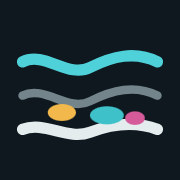
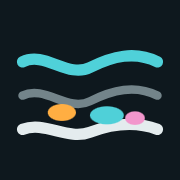
demo: more saturated fluid colours, regenerated share image, defect in facts
- Fluid colours: amber #FFAE42, teal #4FD0D8, pink #F296CC instead of the
  greyish #E2C27E, #86CFD3, #D59CC0. The IRF fill no longer reads olive (the
  hue moved from yellow toward orange) and the three are clearly separate hues.
  Overlay fills stay at 35% with the dark halo; every outline is at least
  3.3:1 against the surrounding tissue and 4.9:1 against the fluid on all
  three scanner styles. Legend chips use a 75% fill so they read at a glance.
- npm run og: og.png, favicon.svg and apple-touch-icon.png use the new
  colours, now from one FLUID constant in scripts/og.ts.
- lib/facts.js: the OcuVal section says the evaluation had a defect, found on
  16 October 2026, and results will be posted once it is corrected.

Changed region(s): [[0.6944, 0.6111, 0.8056, 0.6944]]

diff --git a/scripts/og.ts b/scripts/og.ts
@@ -14,15 +14,18 @@ const root = path.dirname(path.dirname(fileURLToPath(import.meta.url)));
 const pub = path.join(root, "public");
 const font = (f: string) => pathToFileURL(path.join(pub, "fonts", f)).href;
 
+// Fluid class colours. Must match --irf, --srf, --ped in src/css/site.css and CLASSES in src/js/oct.js.
+const FLUID = { irf: "#FFAE42", srf: "#4FD0D8", ped: "#F296CC" };
+
 // Retinal layers with three fluid pockets, in the site's fluid colours.
 const FAVICON = `<svg xmlns="http://www.w3.org/2000/svg" viewBox="0 0 64 64">
   <rect width="64" height="64" rx="14" fill="#0E181E"/>
   <path d="M8 22c8-4 16 6 24 2s16-6 24-2" fill="none" stroke="#4FD1D9" stroke-width="4" stroke-linecap="round"/>
   <path d="M8 34c8-4 16 6 24 2s16-6 24-2" fill="none" stroke="#9FB2B8" stroke-width="3" stroke-linecap="round" opacity=".7"/>
   <path d="M8 46c8-3 16 4 24 1s16-4 24-1" fill="none" stroke="#E4ECEE" stroke-width="4" stroke-linecap="round"/>
-  <ellipse cx="22" cy="40" rx="5" ry="3" fill="#F2B84B"/>
-  <ellipse cx="38" cy="41" rx="6" ry="3.2" fill="#3FC1C9"/>
-  <ellipse cx="48" cy="42" rx="3.5" ry="2.4" fill="#D45A9A"/>
+  <ellipse cx="22" cy="40" rx="5" ry="3" fill="${FLUID.irf}"/>
+  <ellipse cx="38" cy="41" rx="6" ry="3.2" fill="${FLUID.srf}"/>
+  <ellipse cx="48" cy="42" rx="3.5" ry="2.4" fill="${FLUID.ped}"/>
 </svg>
 `;
 
@@ -40,10 +43,10 @@ function layers(width: number, height: number): string {
   });
   return `<svg xmlns="http://www.w3.org/2000/svg" viewBox="0 0 ${width} ${height}" width="${width}" height="${height}">
     ${lines.join("")}
-    <ellipse cx="${width * 0.48}" cy="292" rx="34" ry="18" fill="#F2B84B" opacity=".9"/>
-    <ellipse cx="${width * 0.56}" cy="300" rx="24" ry="14" fill="#F2B84B" opacity=".9"/>
-    <ellipse cx="${width * 0.6}" cy="392" rx="70" ry="22" fill="#3FC1C9" opacity=".85"/>
-    <ellipse cx="${width * 0.24}" cy="410" rx="40" ry="18" fill="#D45A9A" opacity=".85"/>
+    <ellipse cx="${width * 0.48}" cy="292" rx="34" ry="18" fill="${FLUID.irf}" opacity=".9"/>
+    <ellipse cx="${width * 0.56}" cy="300" rx="24" ry="14" fill="${FLUID.irf}" opacity=".9"/>
+    <ellipse cx="${width * 0.6}" cy="392" rx="70" ry="22" fill="${FLUID.srf}" opacity=".85"/>
+    <ellipse cx="${width * 0.24}" cy="410" rx="40" ry="18" fill="${FLUID.ped}" opacity=".85"/>
   </svg>`;
 }
 

diff --git a/src/css/site.css b/src/css/site.css
@@ -12,7 +12,7 @@
   --bg:#0E181E; --surface:#13222A; --border:#22363F;
   --text:#E4ECEE; --muted:#B4C5CA; --secondary:#9FB2B8;
   --accent:#4FD1D9; --accent-ink:#06171C; --ok:#4ADE80; --warn:#FF8A7A;
-  --irf:#E2C27E; --srf:#86CFD3; --ped:#D59CC0; /* fluid classes, softened; must match CLASSES in src/js/oct.js */
+  --irf:#FFAE42; --srf:#4FD0D8; --ped:#F296CC; /* fluid classes; must match CLASSES in src/js/oct.js and FLUID in scripts/og.ts */
   --font-head:"Bricolage Grotesque","Heading Fallback",system-ui,sans-serif;
   --font-body:"IBM Plex Sans","Body Fallback",system-ui,sans-serif;
   --font-mono:"IBM Plex Mono","Mono Fallback",ui-monospace,monospace;
@@ -100,7 +100,7 @@ p{margin:0}
 .legend button{display:inline-flex; align-items:center; gap:.5rem; min-height:44px; padding:0 .85rem; border:1.5px solid var(--border); border-radius:var(--r-sm); background:transparent; color:var(--text); font-size:.9rem; cursor:pointer}
 .legend button[aria-pressed="false"]{color:var(--secondary); border-style:dashed}
 .legend button[aria-pressed="false"] .sw{opacity:.35}
-.sw{width:14px; height:14px; border-radius:4px; flex:none; border:1.5px solid var(--c); background:color-mix(in srgb,var(--c) 35%,transparent)}
+.sw{width:14px; height:14px; border-radius:4px; flex:none; border:1.5px solid var(--c); background:color-mix(in srgb,var(--c) 75%,transparent)} /* stronger than the 35% scan overlay so the three chips are distinct at a glance */
 .sw-irf{--c:var(--irf)} .sw-srf{--c:var(--srf)} .sw-ped{--c:var(--ped)}
 
 /* sections */

diff --git a/lib/facts.js b/lib/facts.js
@@ -41,7 +41,7 @@ export const FACTS = `
 - Reads DICOM directly. Uses the RETOUCH challenge dataset, which has scans from Cirrus, Spectralis and Topcon devices. Registered RETOUCH challenge team name: OcuVal.
 - Focus on cross-vendor validation, because a model that only works on one scanner is not usable in a clinic.
 - Documentation modelled on IEC 62304, the medical device software standard.
-- Training on Kaggle GPUs. Results are still in progress, so there are no final metrics yet.
+- Training on Kaggle GPUs. Results are still in progress, so there are no final metrics yet. The evaluation had a defect, found on 16 October 2026, and results will be posted once it is corrected.
 - Repo: https://github.com/Anurag-YadavIIH/retinal-oct-fluid-segmentation
 
 ### RetinaPrep: retinal fundus dataset audit

diff --git a/src/js/oct.js b/src/js/oct.js
@@ -162,11 +162,11 @@ async function buildBase(vi) {
 }
 
 /* ---------- segmentation overlay as vector shapes (source coordinates) ---------- */
-// Softer class colours; the legend uses the same values (--irf, --srf, --ped in site.css).
+// Class colours; the legend uses the same values (--irf, --srf, --ped in site.css).
 const CLASSES = {
-  1: { rgb: [226, 194, 126] }, // intraretinal fluid
-  2: { rgb: [134, 207, 211] }, // subretinal fluid
-  3: { rgb: [213, 156, 192] }, // pigment epithelial detachment
+  1: { rgb: [255, 174, 66] }, // intraretinal fluid, #FFAE42
+  2: { rgb: [79, 208, 216] }, // subretinal fluid, #4FD0D8
+  3: { rgb: [242, 150, 204] }, // pigment epithelial detachment, #F296CC
 };
 function bandPath(topKey, bottomKey, minGap = 0.6) {
   const p = new Path2D();
